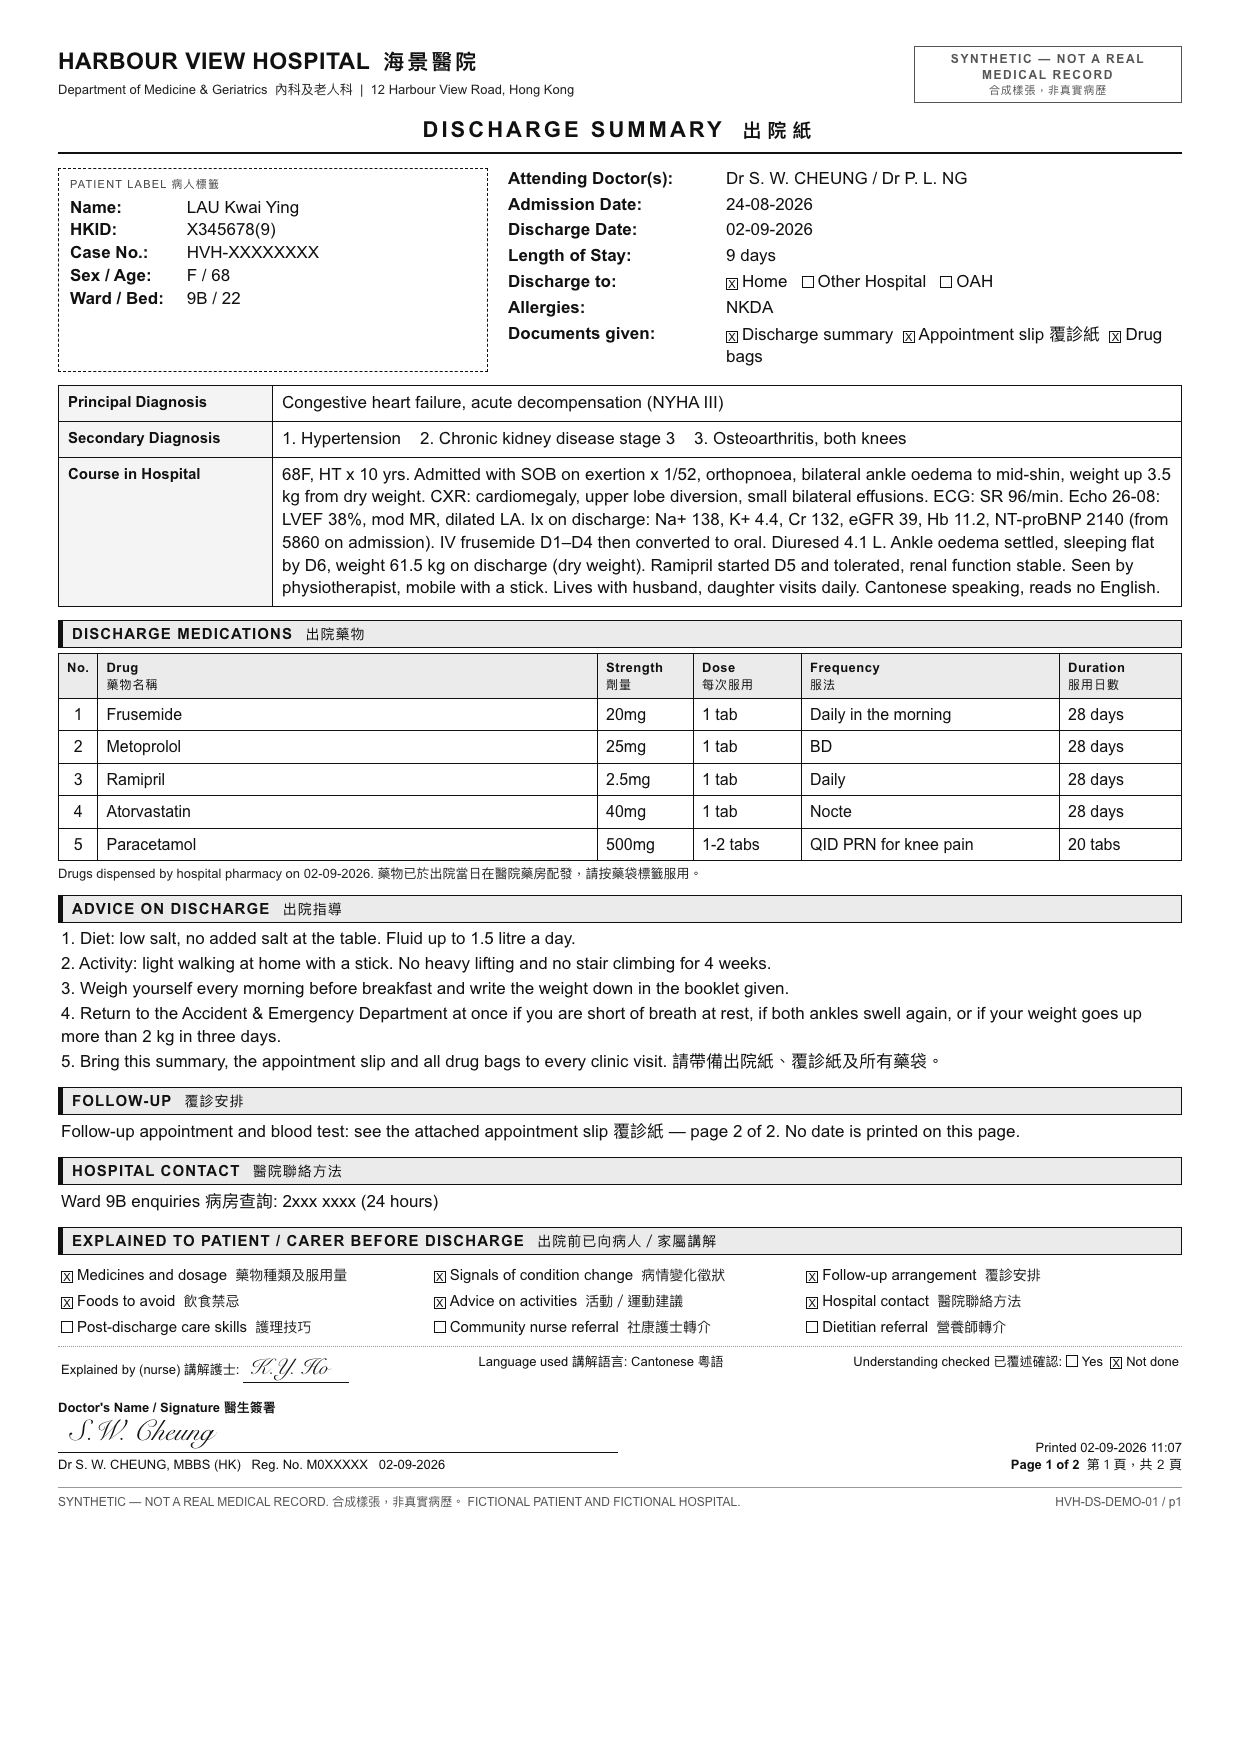
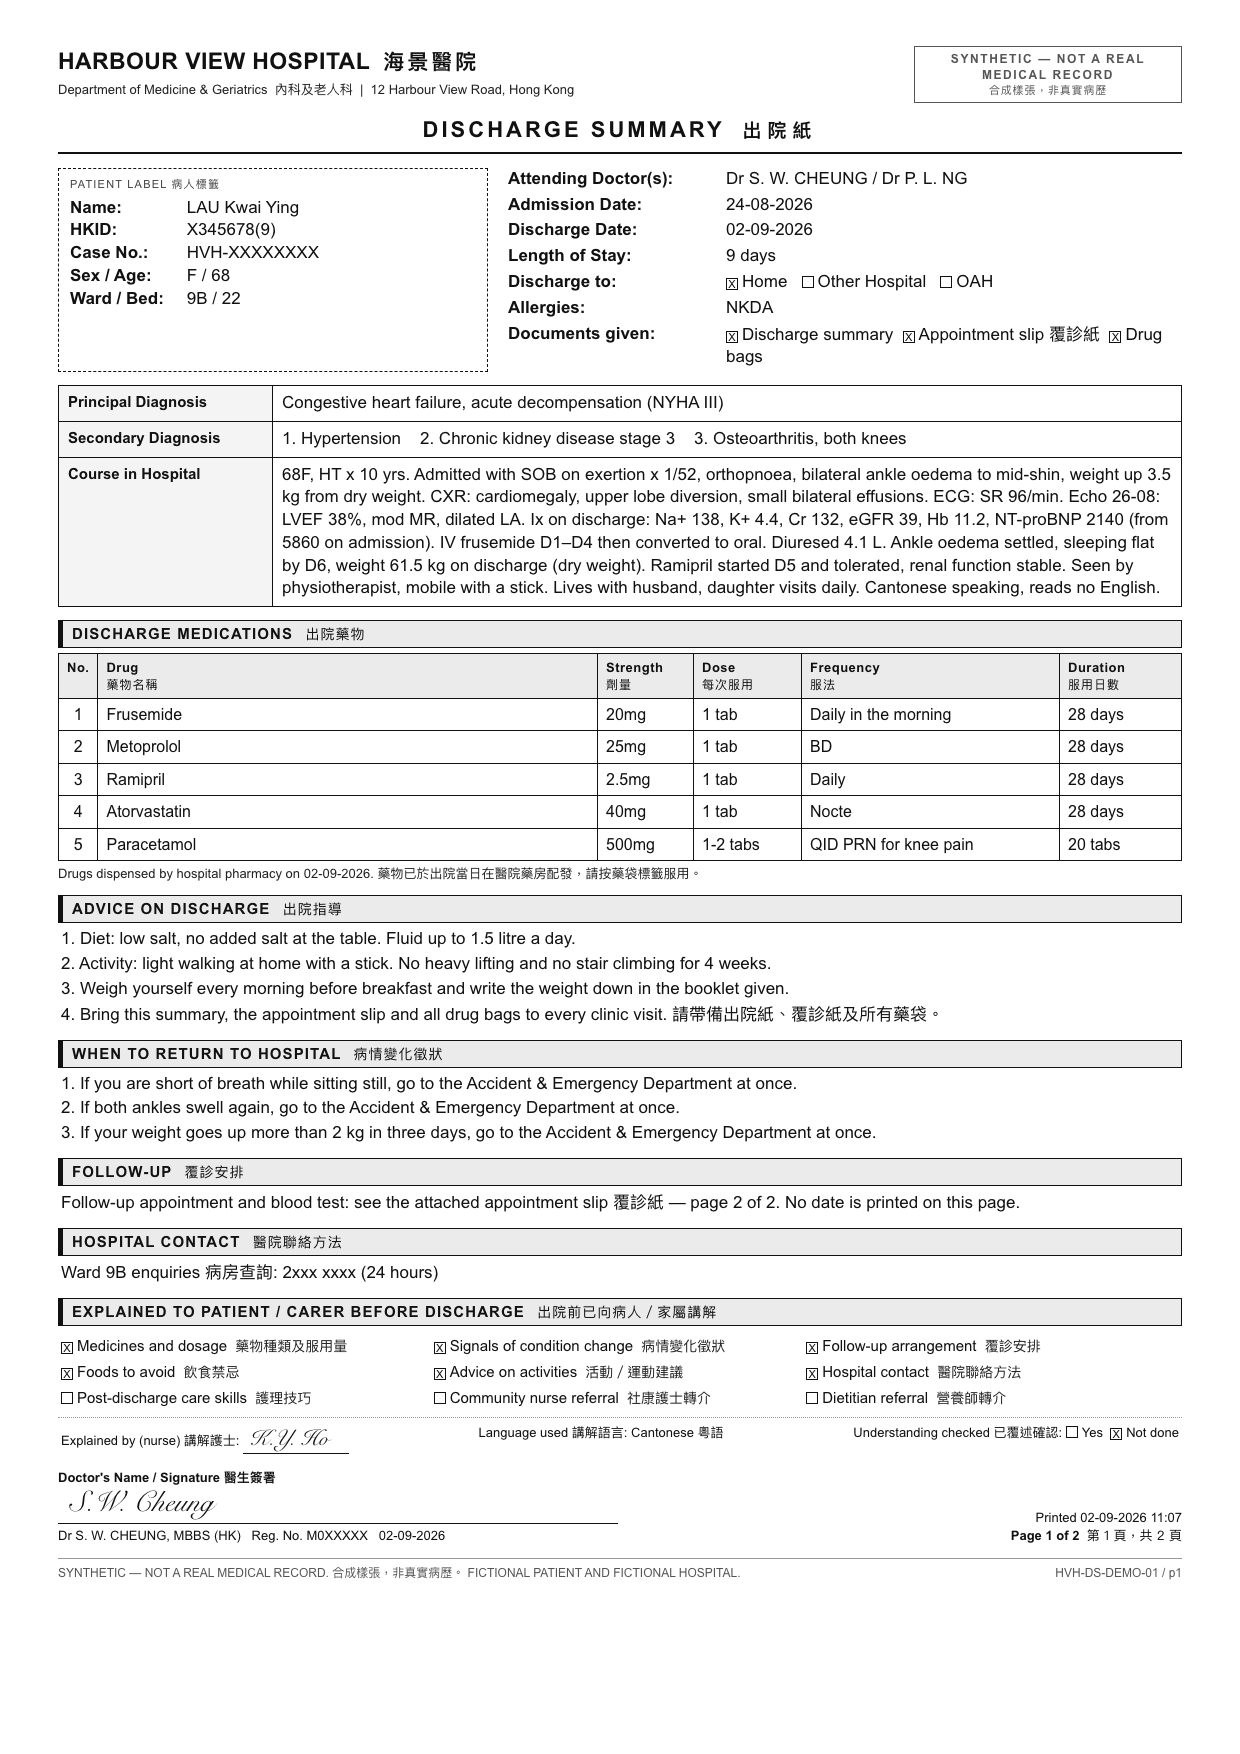
Paperwork for the stage: a stack, a stopped drug, and a clause with no number
fixtures/sheets/ was built to test the reader and fixtures/stress/ to break it.
Neither was built to be projected. These three are.

hk_stack is the differentiator: a Hong Kong discharge in two pages, medicines on
page 1 and BOTH appointment dates on page 2, because that is what the HKWC
discharge checklist says actually happens — the patient leaves with 出院紙,
覆診紙, 抽血紙 and the rest, not one page. Read one page and you have read a
third of the discharge. Page 1's follow-up line points at page 2 and prints no
date at all, so the two images have to be read as one document or the family
gets no appointment.

hk_stopped prints "MEDICINES STOPPED — NOT TO BE TAKEN AFTER DISCHARGE" in the
same grey caption bar, the same six columns and the same type as the discharge
list above it. No red ink, because a real ward printout has none. The only thing
separating a drug to take from one the hospital withdrew is the sentence above
the table, which is exactly what Medicine.status has to read.

cn_zh_clinic is a mainland 出院指导单 — 出院诊断 / 出院医嘱 / 用药指导 /
复诊时间 — whose fifth drug is printed "疼痛时口服，每4小时一次，每日不超过4次".
An interval and a stated ceiling, not a schedule. lib/rules/doses.ts refuses it,
so the card shows the printed clause and no number, which is the honest answer.

tests/eval/demo.ts scores them against the answer keys and asks the three
questions the demo rests on: did page 2's follow-ups come back, did every
stopped medicine come back as anything but "current" and stay out of the plan
[…]

Changed region(s): [[0.0306, 0.5542, 0.95, 0.9236], [0.8274, 0.5542, 0.9194, 0.5849]]

diff --git a/fixtures/demo/hk_stopped.html b/fixtures/demo/hk_stopped.html
@@ -52,7 +52,7 @@
   .topfields .fld .v { flex: 1; }
   .box { display: inline-block; width: 12px; height: 12px; border: 1px solid #111; margin-right: 4px; position: relative; top: 1px; text-align: center; line-height: 10px; font-size: 11px; }
 
-  .sec { margin-top: 13px; }
+  .sec { margin-top: 11px; }
   .sec > .h {
     font-size: 15px; font-weight: bold; letter-spacing: 1.1px;
     background: #ebebeb; border: 1px solid #111; border-left-width: 5px;
@@ -86,7 +86,7 @@
   .teachby { margin-top: 6px; padding: 6px 3px 0 3px; border-top: 1px dotted #999; font-size: 13px; display: flex; justify-content: space-between; }
   .teachby i { font-family: "Snell Roundhand", "Brush Script MT", cursive; font-style: normal; font-size: 22px; border-bottom: 1px solid #111; padding: 0 20px 1px 6px; }
 
-  .sig { display: flex; justify-content: space-between; align-items: flex-end; margin-top: 16px; }
+  .sig { display: flex; justify-content: space-between; align-items: flex-end; margin-top: 12px; }
   .sigblk { width: 560px; }
   .sigline { border-bottom: 1px solid #111; height: 34px; position: relative; }
   .sigline i { position: absolute; left: 12px; bottom: 1px; font-family: "Snell Roundhand", "Brush Script MT", cursive; font-size: 29px; font-style: normal; }
@@ -188,8 +188,16 @@
     <span class="ln">1. Diet: diabetic diet. No sweet drinks and no sweet snacks between meals.</span>
     <span class="ln">2. Activity: walk indoors with the frame. Do not go out alone until you have been seen at the clinic.</span>
     <span class="ln">3. Check the blood sugar before breakfast and before dinner, and write both readings in the diary given.</span>
-    <span class="ln">4. Return to the Accident &amp; Emergency Department at once if you feel faint or dizzy when you stand up, if you pass black or tarry stools, or if you cannot keep food or fluid down.</span>
-    <span class="ln">5. Keep a sweet drink or three glucose tablets within reach at home and in the bag.</span>
+    <span class="ln">4. Keep a sweet drink or three glucose tablets within reach at home and in the bag.</span>
+  </div>
+</div>
+
+<div class="sec">
+  <div class="h">WHEN TO RETURN TO HOSPITAL <span class="zh">病情變化徵狀</span></div>
+  <div class="body adv">
+    <span class="ln">1. If you feel faint or dizzy when you stand up, go to the Accident &amp; Emergency Department at once.</span>
+    <span class="ln">2. If you pass black or tarry stools, go to the Accident &amp; Emergency Department at once.</span>
+    <span class="ln">3. If you cannot keep food or fluid down, go to the Accident &amp; Emergency Department at once.</span>
   </div>
 </div>
 

diff --git a/fixtures/demo/hk_stack_page1.html b/fixtures/demo/hk_stack_page1.html
@@ -182,8 +182,16 @@
     <span class="ln">1. Diet: low salt, no added salt at the table. Fluid up to 1.5 litre a day.</span>
     <span class="ln">2. Activity: light walking at home with a stick. No heavy lifting and no stair climbing for 4 weeks.</span>
     <span class="ln">3. Weigh yourself every morning before breakfast and write the weight down in the booklet given.</span>
-    <span class="ln">4. Return to the Accident &amp; Emergency Department at once if you are short of breath at rest, if both ankles swell again, or if your weight goes up more than 2 kg in three days.</span>
-    <span class="ln">5. Bring this summary, the appointment slip and all drug bags to every clinic visit. <span class="zh">請帶備出院紙、覆診紙及所有藥袋。</span></span>
+    <span class="ln">4. Bring this summary, the appointment slip and all drug bags to every clinic visit. <span class="zh">請帶備出院紙、覆診紙及所有藥袋。</span></span>
+  </div>
+</div>
+
+<div class="sec">
+  <div class="h">WHEN TO RETURN TO HOSPITAL <span class="zh">病情變化徵狀</span></div>
+  <div class="body adv">
+    <span class="ln">1. If you are short of breath while sitting still, go to the Accident &amp; Emergency Department at once.</span>
+    <span class="ln">2. If both ankles swell again, go to the Accident &amp; Emergency Department at once.</span>
+    <span class="ln">3. If your weight goes up more than 2 kg in three days, go to the Accident &amp; Emergency Department at once.</span>
   </div>
 </div>
 

diff --git a/tests/eval/demo.ts b/tests/eval/demo.ts
@@ -565,10 +565,12 @@ async function main(): Promise<void> {
             ? `, ${s.diff.followUp.mismatches.map((m) => `[${m.index}].${m.field} want "${m.expected}" got "${m.actual}"`).join("; ")}`
             : ""),
       );
+      // Count matters as much as coverage: one card carrying three symptoms is not three cards,
+      // and the app reads warnings out one at a time.
       line(
         "warnings",
-        s.diff.warningSigns.coverage === 1,
-        `${s.diff.warningSigns.returnedCount} returned, quote coverage ${pct(s.diff.warningSigns.coverage)} of ${s.diff.warningSigns.expectedCount}`,
+        s.diff.warningSigns.countOk && s.diff.warningSigns.coverage === 1,
+        `${s.diff.warningSigns.returnedCount}/${s.diff.warningSigns.expectedCount} returned, quote coverage ${pct(s.diff.warningSigns.coverage)}`,
       );
       line(
         "diet / activity",
@@ -595,6 +597,8 @@ async function main(): Promise<void> {
         s.invented.length === 0 &&
         s.dangerous.length === 0 &&
         s.followUpMissing.length === 0 &&
+        s.diff.warningSigns.countOk &&
+        s.diff.warningSigns.coverage === 1 &&
         s.counted.every((c) => c.ok) &&
         s.bannedHits === 0;
       if (!demoOk) liveFailures += 1;
